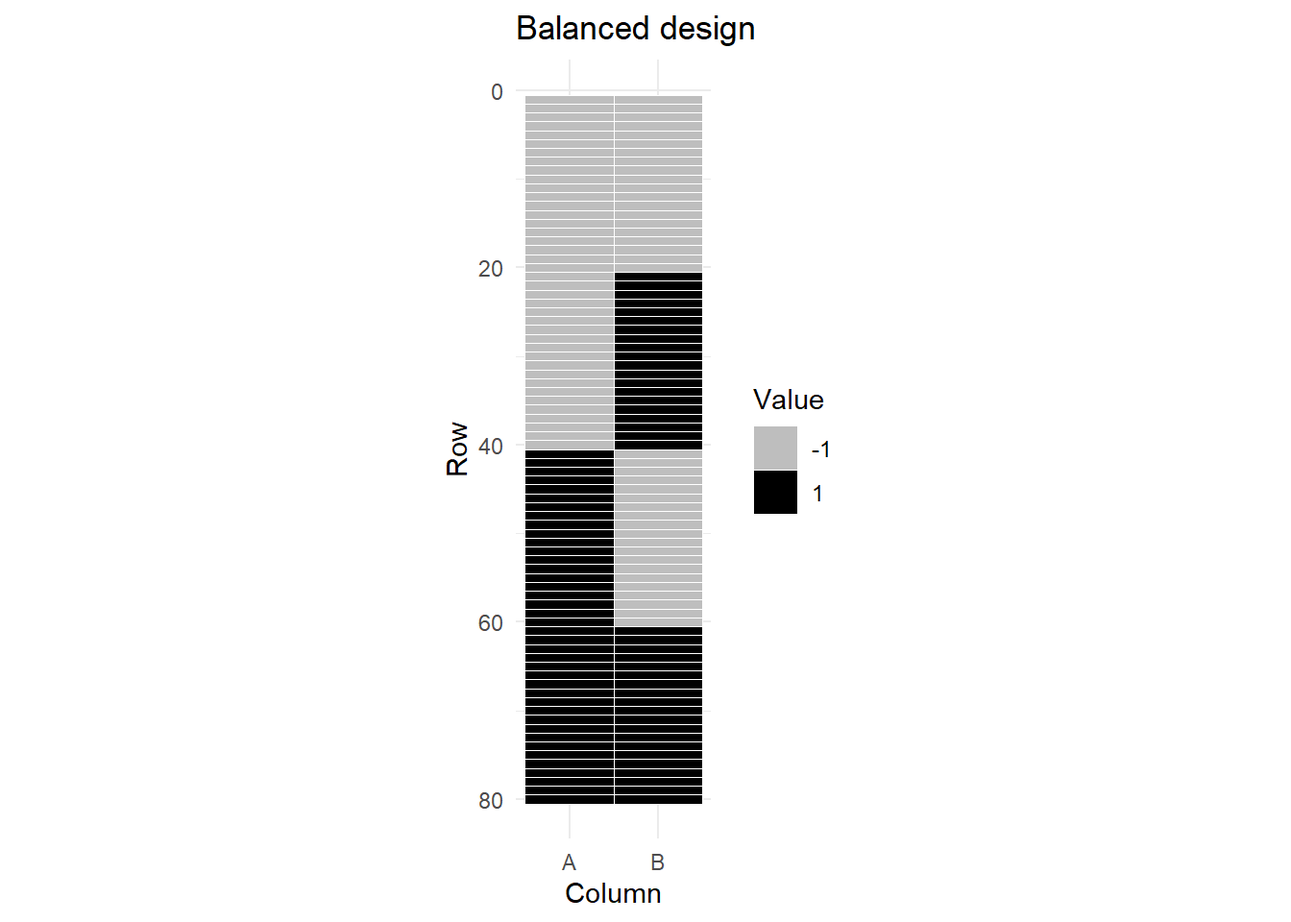
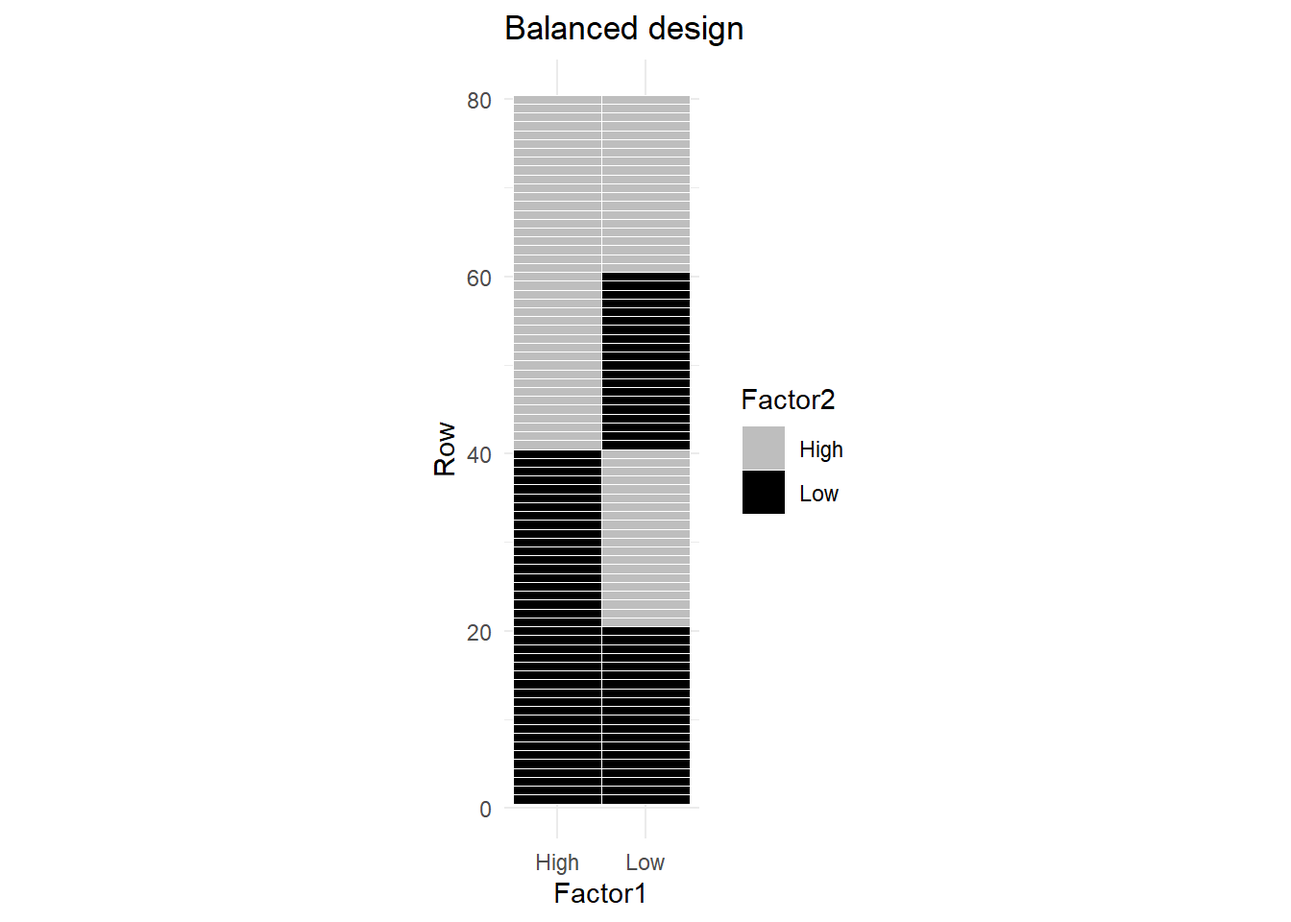
fixed unbalanced page

diff --git a/docs/unbalanced.html b/docs/unbalanced.html
@@ -317,11 +317,15 @@ window.Quarto = {
    
   <ul>
   <li><a href="#introduction" id="toc-introduction" class="nav-link active" data-scroll-target="#introduction">Introduction</a></li>
+  <li><a href="#section" id="toc-section" class="nav-link" data-scroll-target="#section"></a></li>
   <li><a href="#type-i" id="toc-type-i" class="nav-link" data-scroll-target="#type-i">Type I</a></li>
   <li><a href="#type-iii" id="toc-type-iii" class="nav-link" data-scroll-target="#type-iii">Type III</a></li>
   <li><a href="#type-ii" id="toc-type-ii" class="nav-link" data-scroll-target="#type-ii">Type II</a></li>
-  <li><a href="#type-iv" id="toc-type-iv" class="nav-link" data-scroll-target="#type-iv">Type IV</a></li>
-  <li><a href="#proscons-table" id="toc-proscons-table" class="nav-link" data-scroll-target="#proscons-table">Pros/Cons Table</a></li>
+  <li><a href="#other-sum-of-squares-types" id="toc-other-sum-of-squares-types" class="nav-link" data-scroll-target="#other-sum-of-squares-types">Other Sum of Squares Types</a></li>
+  <li><a href="#proscons-table" id="toc-proscons-table" class="nav-link" data-scroll-target="#proscons-table">Pros/Cons Table</a>
+  <ul class="collapse">
+  <li><a href="#more-guidance-on-when-to-use-which-type" id="toc-more-guidance-on-when-to-use-which-type" class="nav-link" data-scroll-target="#more-guidance-on-when-to-use-which-type">More Guidance on When to Use Which Type</a></li>
+  </ul></li>
   <li><a href="#examples" id="toc-examples" class="nav-link" data-scroll-target="#examples">Examples</a>
   <ul class="collapse">
   <li><a href="#type-i-1" id="toc-type-i-1" class="nav-link" data-scroll-target="#type-i-1">Type I</a></li>
@@ -360,11 +364,11 @@ window.Quarto = {
 
 <section id="introduction" class="level1 page-columns page-full">
 <h1>Introduction</h1>
-<p>A balanced dataset is one in which there are an equal number of replicates for each and every factor level combination. Unbalanced datasets are those that have an unequal number of replicates in at least one factor level combination. In reality, it is more common to have unbalanced data than balanced data. This is particularly true for observational studies. Therefore, it is critical to learn how to analyze unbalanced data.</p>
-<p>The formulas for unbalanced data are more complicated than when the data is balanced. This is not an issue since we will let computers do the calculations. The bigger issue deals with the fact that unbalanced datasets often result in correlated factor effects. Due to the equal number of replicates, factors in a balanced dataset are orthogonal. Factors in an unbalanced dataset are not guaranteed this desirable property.<a href="#fn1" class="footnote-ref" id="fnref1" role="doc-noteref"><sup>1</sup></a></p>
+<p>A balanced dataset is one in which there are an equal number of replicates for each and every factor level combination. Unbalanced datasets are those that have an unequal number of replicates in at least one factor level combination and are quite common. In observational studies especially it is more common to have unbalanced data than balanced data. Therefore, it is critical to learn how to analyze unbalanced data.</p>
+<p>Though the general principle behind calculating effect sizes still apply (i.e.&nbsp;factor level mean minus sum of all outside factor effects), the effects must be weighted by sample sizes. The formulas for unbalanced data are therefore more complicated than when the data is balanced. This is not an issue since we will let computers do the calculations. The bigger issue deals with the fact that unbalanced datasets often result in correlated factor effects. Due to the equal number of replicates, factors in a balanced dataset are orthogonal. Factors in an unbalanced dataset are not guaranteed this desirable property.<a href="#fn1" class="footnote-ref" id="fnref1" role="doc-noteref"><sup>1</sup></a></p>
 <!-- Consider the following example. A study was done with two independent factors: Height (tall and short) and Weight (heavy and light). In a balanced dataset, there would be an equal number of heavy, tall people and light, tall people. So, in the dataset these two factors would be orthogonal/uncorrelated. Instead, consider an unbalanced dataset where there are twice as many tall people as short people. If the proportion of heavy people is equal to the propotion of light people within each height category, then the factors are still considered orthogonal. However, this rarely happens in practice unless it is a deliberate part of the design. -->
 <!-- A more likely scenario is that a much higher percentage of tall people are considered heavy. This would result in correlated factors. -->
-<p><a href="#fig-balanced" class="quarto-xref">Figure&nbsp;1</a> is a graphical depiction of an unbalanced dataset for two factors A and B, each with 2 levels, coded as -1 and 1. You can see that each factor level combination appears an equal number of times<a href="#fn2" class="footnote-ref" id="fnref2" role="doc-noteref"><sup>2</sup></a>.</p>
+<p><a href="#fig-balanced" class="quarto-xref">Figure&nbsp;1</a> is a graphical depiction of an unbalanced dataset for two factors, each with 2 levels: High and Low. You can see that each factor level combination appears an equal number of times<a href="#fn2" class="footnote-ref" id="fnref2" role="doc-noteref"><sup>2</sup></a>.</p>
 <div class="cell">
 <div class="cell-output-display">
 <div id="fig-balanced" class="quarto-figure quarto-figure-center quarto-float anchored">
@@ -379,11 +383,11 @@ Figure&nbsp;1: Balanced, orthogonal data
 </div>
 </div>
 </div>
-<p>The correlation of these two columns of 1’s and -1’s is zero.</p>
+<p>The correlation of these two factors is zero.</p>
 
 <div class="no-row-height column-margin column-container"><div class="">
-<p>We are measuring the correlation of the <em>coded</em> factors with each other. We have not even bothered to define the response variable in these examples, since it is irrelevant to the discussion.</p>
-</div></div><p>Now consider <a href="#fig-unbalanced" class="quarto-xref">Figure&nbsp;2</a>, where there are fewer observations for the A=1, B=-1 combination, and more observations for A=1, B=1.</p>
+<p>We are measuring the correlation of the <em>coded</em> factors with each other. We have not bothered to define the response variable in these examples, since it is irrelevant to the discussion.</p>
+</div></div><p>Now consider <a href="#fig-unbalanced" class="quarto-xref">Figure&nbsp;2</a>, where there are fewer observations for the combination (Low, Low), and more observations for (Low, High) combination.</p>
 <div class="cell">
 <div class="cell-output-display">
 <div id="fig-unbalanced" class="quarto-figure quarto-figure-center quarto-float anchored">
@@ -401,8 +405,8 @@ Figure&nbsp;2: Unbalanced, non-orthogonal data
 <p>The correlation between the two factors is NOT zero.</p>
 <p>The issue with correlated factors is that their effects on the response are also confounded. When the response varies it cannot be determined how much of the variation in the response is due to factor A and how much was due to factor B.</p>
 </section>
-<section id="type-i" class="level1 page-columns page-full">
-<h1>Type I</h1>
+<section id="section" class="level1">
+<h1></h1>
 <p>This correlation/confounding of effects also means it is not clear exactly which factor the sums of squares should be attributed to in an ANOVA. <a href="#fig-venn" class="quarto-xref">Figure&nbsp;3</a> (a)<a href="#fn3" class="footnote-ref" id="fnref3" role="doc-noteref"><sup>3</sup></a> illustrates this shared sum of squares. The shared sum of squares is due to the correlation between the two factors and is represented by the overlap in the circles.</p>
 <div id="fig-venn" class="quarto-figure quarto-figure-center quarto-float anchored">
 <figure class="quarto-float quarto-float-fig figure">
@@ -410,11 +414,27 @@ Figure&nbsp;2: Unbalanced, non-orthogonal data
 <img src="https://besjournals.onlinelibrary.wiley.com/cms/asset/c210638b-49a6-4c71-a3cc-990e17231f09/jane_1634_f1.gif" class="img-fluid figure-img">
 </div>
 <figcaption class="quarto-float-caption-bottom quarto-float-caption quarto-float-fig" id="fig-venn-caption-0ceaefa1-69ba-4598-a22c-09a6ac19f8ca">
-Figure&nbsp;3: Venn diagram illustration of sums of squares partitioning for non‐orthogonal factors A and B (ignoring interaction)
+Figure&nbsp;3: Venn diagram illustration of sums of squares partitioning for non‐orthogonal factors A and B. (ignoring interaction)
 </figcaption>
 </figure>
 </div>
-<p>The order in which terms are specified in the model determine which factor the shared sum of squares is attributed to. This approach is referred to as <strong>Sequential Sum of Squares</strong>, or <strong>Type I</strong>. This is the default approach in R.</p>
+<div class="callout callout-style-default callout-warning callout-titled">
+<div class="callout-header d-flex align-content-center">
+<div class="callout-icon-container">
+<i class="callout-icon"></i>
+</div>
+<div class="callout-title-container flex-fill">
+Warning
+</div>
+</div>
+<div class="callout-body-container callout-body">
+<p>The venn diagram in <a href="#fig-venn" class="quarto-xref">Figure&nbsp;3</a> only represents a situation with 2 structural factors, it does NOT include the interaction. An interaction factor would be represented with a third circle, the interaction is not the intersection/overlapping section of A and B factors.</p>
+</div>
+</div>
+</section>
+<section id="type-i" class="level1 page-columns page-full">
+<h1>Type I</h1>
+<p><strong>Sequential Sum of Squares</strong>, or <strong>Type I, means</strong> the order in which terms are specified in the model determines which factor the shared sum of squares is attributed to. This is the default approach in R.</p>
 <p><a href="#fig-venn" class="quarto-xref">Figure&nbsp;3</a> (b) and (c) illustrate how the sum of squares are allocated according to order the factors are listed when the model is specified.</p>
 <p>This can be illustrated with a more concrete example, using data to show how sequential sums of squares works. The data are taken from a hypothetical example by Shaw &amp; Mitchell-Olds(1993)<a href="#fn4" class="footnote-ref" id="fnref4" role="doc-noteref"><sup>4</sup></a> as cited by Hector, Von Felton, &amp; Schmid (2010)<a href="#fn5" class="footnote-ref" id="fnref5" role="doc-noteref"><sup>5</sup></a>. In this study, the response is height of a plant. One factor is thinning: yes or no. Thinning is a process where neighboring plants are removed so that they do not compete with each other for light and nutrients in the soil. The other factor in the study is the initial size of the plant at the beginning of the study period. It also has two levels: small and large.</p>
 <p>Initial size and thinning were crossed to create an unbalanced BF[2] design. The data are presented in <a href="#tbl-example_data" class="quarto-xref">Table&nbsp;1</a></p>
@@ -970,12 +990,15 @@ Table&nbsp;5: Type 3 ANOVA, As If Last
 </figure>
 </div>
 </div>
-<p>The sum of squares contained in a Type III ANOVA table can be interpreted as the sum of squares attributable to a factor after all the other factors in the model have been accounted for. Type III does not attribute the overlapping sum of squares to any factor. This is represented by the middle intersection piece of the Venn diagram in panel (d) of <a href="#fig-venn" class="quarto-xref">Figure&nbsp;3</a>.<a href="#fn6" class="footnote-ref" id="fnref6" role="doc-noteref"><sup>6</sup></a> This is why the sum of squares for factors in Type III do NOT add up to the total sum of squares, like they did in Type I. The Type III ANOVA tests are based on marginal means unweighted by sample size.</p>
-</section>
+<p>The sum of squares contained in a Type III ANOVA table can be interpreted as the sum of squares attributable to a factor after all the other factors in the model have been accounted for. Type III does not attribute the overlapping sum of squares to any factor. This is represented by the middle intersection piece of the Venn diagram in panel (d) of <a href="#fig-venn" class="quarto-xref">Figure&nbsp;3</a>.<a href="#fn6" class="footnote-ref" id="fnref6" role="doc-noteref"><sup>6</sup></a> This is why the sum of squares for factors in Type III do NOT add up to the total sum of squares, like they did in Type I.</p>
+
+<div class="no-row-height column-margin column-container"><div class="">
+<p>The Type III ANOVA tests are based on marginal means unweighted by sample size.</p>
+</div></div></section>
 <section id="type-ii" class="level1 page-columns page-full">
 <h1>Type II</h1>
 <p>One of the major complaints against a Type III approach is that it violates the principle of marginality. The marginality principle states when a higher order effect (e.g.&nbsp;an interaction) is included in a model, the lower order effects (e.g.&nbsp;main effects) should also be included in the model. According to this principle it does not make sense to test a main effect “as if last” <em>after</em> accounting for the interaction, which is exactly the situation we came across in Type III (see <a href="#tbl-type3" class="quarto-xref">Table&nbsp;5</a>, panel b and c).</p>
-<p>Type II strives to maintain the principle of marginality, while at the same time taking an “as if last” approach. Stated another way, in a Type II ANOVA, each factor is tested “as if last” but ignoring all higher order terms.</p>
+<p>Type II strives to maintain the principle of marginality, while at the same time taking an “as if last” approach. Stated another way, in a Type II ANOVA, each factor is tested “as if last” but ignoring all terms that contain that factor.</p>
 <p>To illustrate this, 2 different Type I ANOVA tables are shown in <a href="#tbl-three_anovas2" class="quarto-xref">Table&nbsp;6</a>. (Note: These are actually the same tables presented in explanation of Type I). In each table, the order of the main effects is swapped, while the higher order interaction always appears afterward.</p>
 <div class="cell page-columns page-full" data-layout-nrow="1">
 <div id="tbl-three_anovas2" class="quarto-layout-panel anchored page-columns page-full">
@@ -1183,12 +1206,21 @@ Table&nbsp;7: Type 2 ANOVA
 </figure>
 </div>
 </div>
-<p>The sum of squares contained in a Type II ANOVA table can be interpreted as the sum of squares attributable to a factor after all the lower or same order factors in the model have been accounted for. The Type II ANOVA tests are based on marginal means weighted by sample size.</p>
-</section>
-<section id="type-iv" class="level1">
-<h1>Type IV</h1>
-<p>There are actually many other methods for calculating sum of squares. One in particular is designed for unbalanced data. Here, the term unbalanced does not simply mean unequal sample sizes across factor level combinations. Unbalanced can also mean that certain factor level combinations are completely missing from the design. This can occur when a combination of factor levels is not possible (i.e.&nbsp;male and pregnant), or if, for whatever reason, observations were not obtained for some factor level combination(s).</p>
-<p>When the dataset is unbalanced in this way, the analyst should consider using Type IV ANOVA.</p>
+<p>The sum of squares contained in a Type II ANOVA table can be interpreted as the sum of squares attributable to a factor after all other factors that it is not a part of in the model have been accounted for.</p>
+<p>A succinct and general explanation from <a href="https://md.psych.bio.uni-goettingen.de/mv/unit/lm_cat/lm_cat_unbal_ss_explained.html#type-ii-and-iii-ss-using-the-car-package">a website</a> is pasted below:</p>
+
+<div class="no-row-height column-margin column-container"><div class="">
+<p>The Type II ANOVA tests are based on marginal means weighted by sample size.</p>
+</div></div><blockquote class="blockquote">
+<p>Specifically, for a two-factor structure with interaction, the main effects A and B are not adjusted for the A<em>B interaction because the interaction contains both A and B. Factor A is adjusted for B because the symbol B does not contain A. Similarly, B is adjusted for A. Finally, the A</em>B interaction is adjusted for each of the two main effects because neither main effect contains both A and B. Put another way, the Type II SS are adjusted for all factors that do not contain the complete set of letters in the effect. …[It allows] lower-order terms explain as much variation as possible, adjusting for one another, before letting higher-order terms take a crack at it.</p>
+</blockquote>
+
+<div class="no-row-height column-margin column-container"><div class="">
+<p>Consider a 3-way model, with factors A, B, and C. The Type II sums of squares for factor A are calculated as SS(A | B, C, B<em>C).</em> In other words, A’s contribution to the variance is calculated after accounting for the contribution of factors B, C, and B*C. The sum of squares for factor AB are calculated as SS(AB | A, B, C, AC, BC).</p>
+</div></div></section>
+<section id="other-sum-of-squares-types" class="level1">
+<h1>Other Sum of Squares Types</h1>
+<p>There are actually many other methods for calculating sum of squares, and they have been given type numbers as well. However, these other types are rarely used. They are often very complex and don’t have clear interpretations. They also may be dependent on how the factors are coded (which level is a reference category for example).</p>
 </section>
 <section id="proscons-table" class="level1">
 <h1>Pros/Cons Table</h1>
@@ -1239,26 +1271,44 @@ Table&nbsp;7: Type 2 ANOVA
 </tr>
 </tbody>
 </table>
-<p>After decades of debate and disagreement, there is an emerging concept gaining ground amongst statisticians that there doesn’t have to be a “right” and a “wrong” approach. Rather, the analyst should pick the approach that best matches the hypothesis they wish to test.</p>
-<p>This discussion has assumed the model is using fixed effects for all factors. In random effects models or mixed models the discussion changes. Those models are outside the scope of this book.</p>
+<p>After decades of debate and disagreement, there is an emerging concept gaining ground among statisticians that there doesn’t have to be a “right” and a “wrong” approach. Rather, the analyst should pick the approach that best matches the hypothesis they wish to test.</p>
+<section id="more-guidance-on-when-to-use-which-type" class="level2">
+<h2 class="anchored" data-anchor-id="more-guidance-on-when-to-use-which-type">More Guidance on When to Use Which Type</h2>
+<p>Knowing which type to use is difficult, but can be summarized with a <a href="https://towardsdatascience.com/anovas-three-types-of-estimating-sums-of-squares-don-t-make-the-wrong-choice-91107c77a27a">simple decision tree</a>.<a href="#fn7" class="footnote-ref" id="fnref7" role="doc-noteref"><sup>7</sup></a></p>
+<ol type="1">
+<li><p>Do you have strong theoretical consideration to inflate the importance of one of your variables?</p>
+<ol type="a">
+<li>If Yes, use Type I. (Place the variable with the greatest importance first)</li>
+<li>If No, proceed to question 2.</li>
+</ol></li>
+<li><p>Is an interaction expected between the independent factors?</p>
+<ol type="a">
+<li>If Yes, use Type III</li>
+<li>If No, use Type II</li>
+</ol></li>
+</ol>
 </section>
-<section id="examples" class="level1">
+</section>
+<section id="examples" class="level1 page-columns page-full">
 <h1>Examples</h1>
 <p>This section strives to provide an example of when each type of ANOVA may be appropriate.</p>
 <section id="type-i-1" class="level2">
 <h2 class="anchored" data-anchor-id="type-i-1">Type I</h2>
 <p>For an example of when Type I may be useful we do not need to look any further than the plant study we have been using all along on this page. Say our research question aims to test the effectiveness of thinning <em>after</em> accounting for the plant’s initial size our hypothesis matches a Type I approach. The research question specifies the order in which we want to consider the factors. Since Type I ANOVA is dependent on the order in which factors are specified in the model, we are able to incorporate the desired order from our research question into the analysis.</p>
 </section>
-<section id="type-ii-1" class="level2">
+<section id="type-ii-1" class="level2 page-columns page-full">
 <h2 class="anchored" data-anchor-id="type-ii-1">Type II</h2>
 <p>You may want to use a Type II ANOVA if the disparity in sample sizes reflects a similar disparity in population size. Perhaps your end goal is to apply the treatment to all members of the population and you want any difference observed in the study to be present in the population. In that case, Type II may be the best choice. This will be more common in observational studies.</p>
 <p>For example, a web developer randomly assigns website visitors to one of two website designs. The population that visits this website is predominantly male. Therefore, Design A and Design B receive many more males than females. In this case, the lopsided nature of the gender distribution may accurately reflect the population of website visitors being predominantly male.</p>
-<p>The test of the main effects for gender and website design will be influenced by sample sizes. Say we conclude that people tend to buy more products when presented with website B. This conclusion will be influenced more heavily by males since males represented a larger proportion of the sample. But in this case that’s okay because males also represent a larger part of our target audience (website visitors).</p>
+
+<div class="no-row-height column-margin column-container"><div class="">
+<p>Notice that this example’s decision is motivated by an explanation of weighted vs.&nbsp;non-weighted means. However, the decision tree still applies. In this Type 2 example, the interaction effect of gender by website is essentially ignored (or saved for last), letting the main effects try to explain as much of the variation as possible without controlling for the imbalance in factor level combinations.</p>
+</div></div><p>The test of the main effects for gender and website design will be influenced by sample sizes. Say we conclude that people tend to buy more products when presented with website B. This conclusion will be influenced more heavily by males since males represented a larger proportion of the sample. But in this case that’s okay because males also represent a larger part of our target audience (website visitors).</p>
 </section>
 <section id="type-iii-1" class="level2">
 <h2 class="anchored" data-anchor-id="type-iii-1">Type III</h2>
 <p>Let’s continue with the website design and gender study mentioned above. Now, instead of taking the role of a business owner, we assume the role of a cognitive psychologist. We are not interested in trying to maximize profits for a target market. Rather, we are interested in knowing how individuals respond to the two different site designs. The fact that we partnered with a website with predominantly male clientele is incidental. We want to arrive at conclusions that will be useful in explaining/predicting behavior of an individual.</p>
-<p>If we use Type II ANOVA the result of the significance test will be confounded with the fact that males account for a larger portion of the sample. A Type III ANOVA will not weight by sample size and will treat the estimated means of males and females equally. Thus our results can be used to predict an individual’s behavior based on their gender and website design. Our findings can now be used by other websites with a different clientele (e.g.&nbsp;predominantly female) to correctly predict/explain individual’s actions.</p>
+<p>If we use Type II ANOVA the result of the significance test of website design will not account for the fact that males account for a larger portion of the sample. A Type III ANOVA will not weight by sample size and will treat the estimated means of males and females equally. Thus our results can be used to predict an individual’s behavior based on their gender and website design. Our findings can now be used by other websites with a different clientele (e.g.&nbsp;predominantly female) to correctly predict/explain individual’s actions.</p>
 </section>
 </section>
 <section id="key-points" class="level1">
@@ -1287,30 +1337,31 @@ Tip
 <section id="r-instruction" class="level1 page-columns page-full">
 <h1>R Instruction</h1>
 <p>Type I ANOVA is the default in the <code>anova()</code> command. In fact, it is the only type of ANOVA available in <code>anova()</code>.</p>
-<p>To get Type II or Type III ANOVA you will create a model in the usual way and then use the <code>Anova()</code> command from the <code>car</code> package. Note the use of the capital ‘A’, instead of lower case ‘a’, in the function name.</p>
+<p>To get Type II or Type III ANOVA you will create a model in the usual way and and redefine the way the model is parameterized using a <code>contrasts</code><a href="#fn8" class="footnote-ref" id="fnref8" role="doc-noteref"><sup>8</sup></a> argument. Then use the <code>Anova()</code> command from the <code>car</code> package. Note the use of the capital ‘A’, instead of lower case ‘a’, in the function name.</p>
 <div class="cell">
-<div class="sourceCode cell-code" id="cb5"><pre class="sourceCode r code-with-copy"><code class="sourceCode r"><span id="cb5-1"><a href="#cb5-1" aria-hidden="true" tabindex="-1"></a>car<span class="sc">::</span><span class="fu">Anova</span>(myaov, <span class="at">type =</span> <span class="dv">3</span>, <span class="at">contrasts =</span> <span class="fu">list</span>(<span class="at">factorA =</span> contr.sum, <span class="at">factorB =</span> contr.sum))</span></code><button title="Copy to Clipboard" class="code-copy-button"><i class="bi"></i></button></pre></div>
+<div class="sourceCode cell-code" id="cb5"><pre class="sourceCode r code-with-copy"><code class="sourceCode r"><span id="cb5-1"><a href="#cb5-1" aria-hidden="true" tabindex="-1"></a>myaov <span class="ot">&lt;-</span> <span class="fu">aov</span>(y <span class="sc">~</span> factorA <span class="sc">*</span> factorB, </span>
+<span id="cb5-2"><a href="#cb5-2" aria-hidden="true" tabindex="-1"></a>             <span class="at">contrasts =</span> <span class="fu">list</span>(<span class="at">factorA =</span> contr.sum, <span class="at">factorB =</span> contr.sum))</span>
+<span id="cb5-3"><a href="#cb5-3" aria-hidden="true" tabindex="-1"></a>car<span class="sc">::</span><span class="fu">Anova</span>(myaov, <span class="at">type =</span> <span class="dv">3</span>)</span></code><button title="Copy to Clipboard" class="code-copy-button"><i class="bi"></i></button></pre></div>
 </div>
 <ul>
+<li><code>myaov</code> is the name we give our model in the first line of code.</li>
+<li><code>contrasts</code> argument tells R how to parameterize the X matrix. In other words, R actually changes a factor variable into a series of columns to represent the various levels. This tells R what values should go in those columns. The default values for contrasts will result in garbage results when used with the <code>Anova()</code> command.</li>
 <li><code>car</code> is the name of the package the <code>Anova()</code> command comes from</li>
 <li><code>::</code> allows you to use functions from a package without having to load the entire package with a <code>library()</code> command. The package you want to access is specifed on the left of the <code>::</code> and the function name is specified on the right.</li>
 <li><code>Anova()</code> is a function from the <code>car</code> package. It can be used to get type II or type III ANOVA tables for a variety of different models, including <code>aov()</code>, <code>lm()</code>, <code>glm()</code>, etc.</li>
-<li><code>myaov</code> is the name we gave our model in a previous step (not shown).</li>
 <li><code>type=</code> argument specifies whether Type II or Type III is desired. It accepts Arabic numerals, or roman numerals in quotes: 2, 3, “II”, “III”. The default, if this argument is omitted, is Type 2.</li>
-<li><code>contrasts</code> argument tells R how to parameterize the X matrix. In other words, R actually changes a factor variable into a series of columns to represent the various levels. This tells R what values should go in those columns.</li>
 </ul>
-<p>For examples of code that produce Type III and Type II ANOVA tables look at <a href="#tbl-type3" class="quarto-xref">Table&nbsp;5</a> and <a href="#tbl-type2" class="quarto-xref">Table&nbsp;7</a> respectively. Those examples have an additional <code>pander()</code> command, and its <code>round=</code> argument. This additional code is solely for formatting and is not necessary.</p>
 <div class="callout callout-style-default callout-tip callout-titled">
 <div class="callout-header d-flex align-content-center">
 <div class="callout-icon-container">
 <i class="callout-icon"></i>
 </div>
 <div class="callout-title-container flex-fill">
-Pro Tip
+Alternative Code
 </div>
 </div>
 <div class="callout-body-container callout-body">
-<p>Rather than adding a <code>contrasts</code> argument to each of your calls of <code>Anova()</code>, you can set the contrasts in the options once. Then all subsequent models will use those types of contrasts. Run this code:</p>
+<p>Rather than adding a <code>contrasts</code> argument to each of your <code>aov()</code> statements, you can set the contrasts in the options once. Then all subsequent models will use those types of contrasts. Run this code:</p>
 <p><code>options(contrasts = c("contr.sum", "contr.poly"))</code></p>
 <p>or</p>
 <p><code>options(contrasts = c("contr.sum", "contr.sum"))</code></p>
@@ -1340,6 +1391,20 @@ Pro Tip
 <li id="fn4"><p>Shaw, R.G. &amp; Mitchell-Olds, T. (1993) ANOVA for unbalanced data: an overview. Ecology, 74, 1638–1645.<a href="#fnref4" class="footnote-back" role="doc-backlink">↩</a></p></li>
 <li id="fn5"><p>&nbsp;Journal of Animal Ecology, Volume: 79, Issue: 2, Pages: 308-316, First published: 05 February 2010, DOI: (10.1111/j.1365-2656.2009.01634.x)<a href="#fnref5" class="footnote-back" role="doc-backlink">↩</a></p></li>
 <li id="fn6"><p>There is also the possibility the total sum of squares is more than the sum of squares total due to “double counting” the variation. This is much more difficult to illustrate with Venn diagrams.<a href="#fnref6" class="footnote-back" role="doc-backlink">↩</a></p></li>
+<li id="fn7"><p>This discussion has assumed the model is using fixed effects for all factors. In random effects models or mixed models the discussion changes. Those models are outside the scope of this book.<a href="#fnref7" class="footnote-back" role="doc-backlink">↩</a></p></li>
+<li id="fn8"><p>In R, when you’re fitting a linear model using the <code>lm()</code> or <code>aov()</code>function, the <code>contrasts</code> argument allows you to specify how categorical variables should be encoded into dummy variables for regression analysis.</p>
+<p>By default, R uses treatment contrasts, where one level of the categorical variable is chosen as the reference level, and the coefficients for the other levels are compared to this reference level. However, you can change this behavior using the <code>contrasts</code> argument to specify different types of contrasts, such as “contr.sum”, “contr.poly”, “contr.helmert”, etc., each of which results in a different encoding of the categorical variables.</p>
+<p>For example, if you have a categorical variable “gender” with levels “male” and “female” and you want to use sum contrasts where the coefficients represent the sum of the response variable for each level compared to the overall mean <em>[which is how we have defined effects in this class]</em>, you would specify <code>contrasts = list(gender = contr.sum)</code> in the <code>aov()</code> function.</p>
+<p>Here’s a brief overview of some common contrast options:</p>
+<ol type="1">
+<li><strong>Contr.sum</strong>: Contrasts sum to zero. Useful for testing specific hypotheses, as it directly compares each group to the overall mean.</li>
+<li><strong>Contr.treatment</strong>: Default behavior in R. One level is chosen as the reference, and the coefficients represent differences from this reference level.</li>
+<li><strong>Contr.poly</strong>: Polynomial contrasts. Useful for ordinal categorical variables where you want to model linear, quadratic, cubic, etc., trends.</li>
+<li><strong>Contr.helmert</strong>: Helmert contrasts. Each level is compared to the mean of subsequent levels.</li>
+<li><strong>Contr.SAS</strong>: Similar to Helmert contrasts, but with a different ordering of coefficients.</li>
+</ol>
+<p>These are just a few examples; there are more contrast options available in R. The choice of contrast depends on the specific research question and the nature of the categorical variable.</p>
+<p>From a ChatGPT 3.5 conversation in May, 2024.<a href="#fnref8" class="footnote-back" role="doc-backlink">↩</a></p></li>
 </ol>
 </section></div></main> <!-- /main -->
 <script id="quarto-html-after-body" type="application/javascript">
